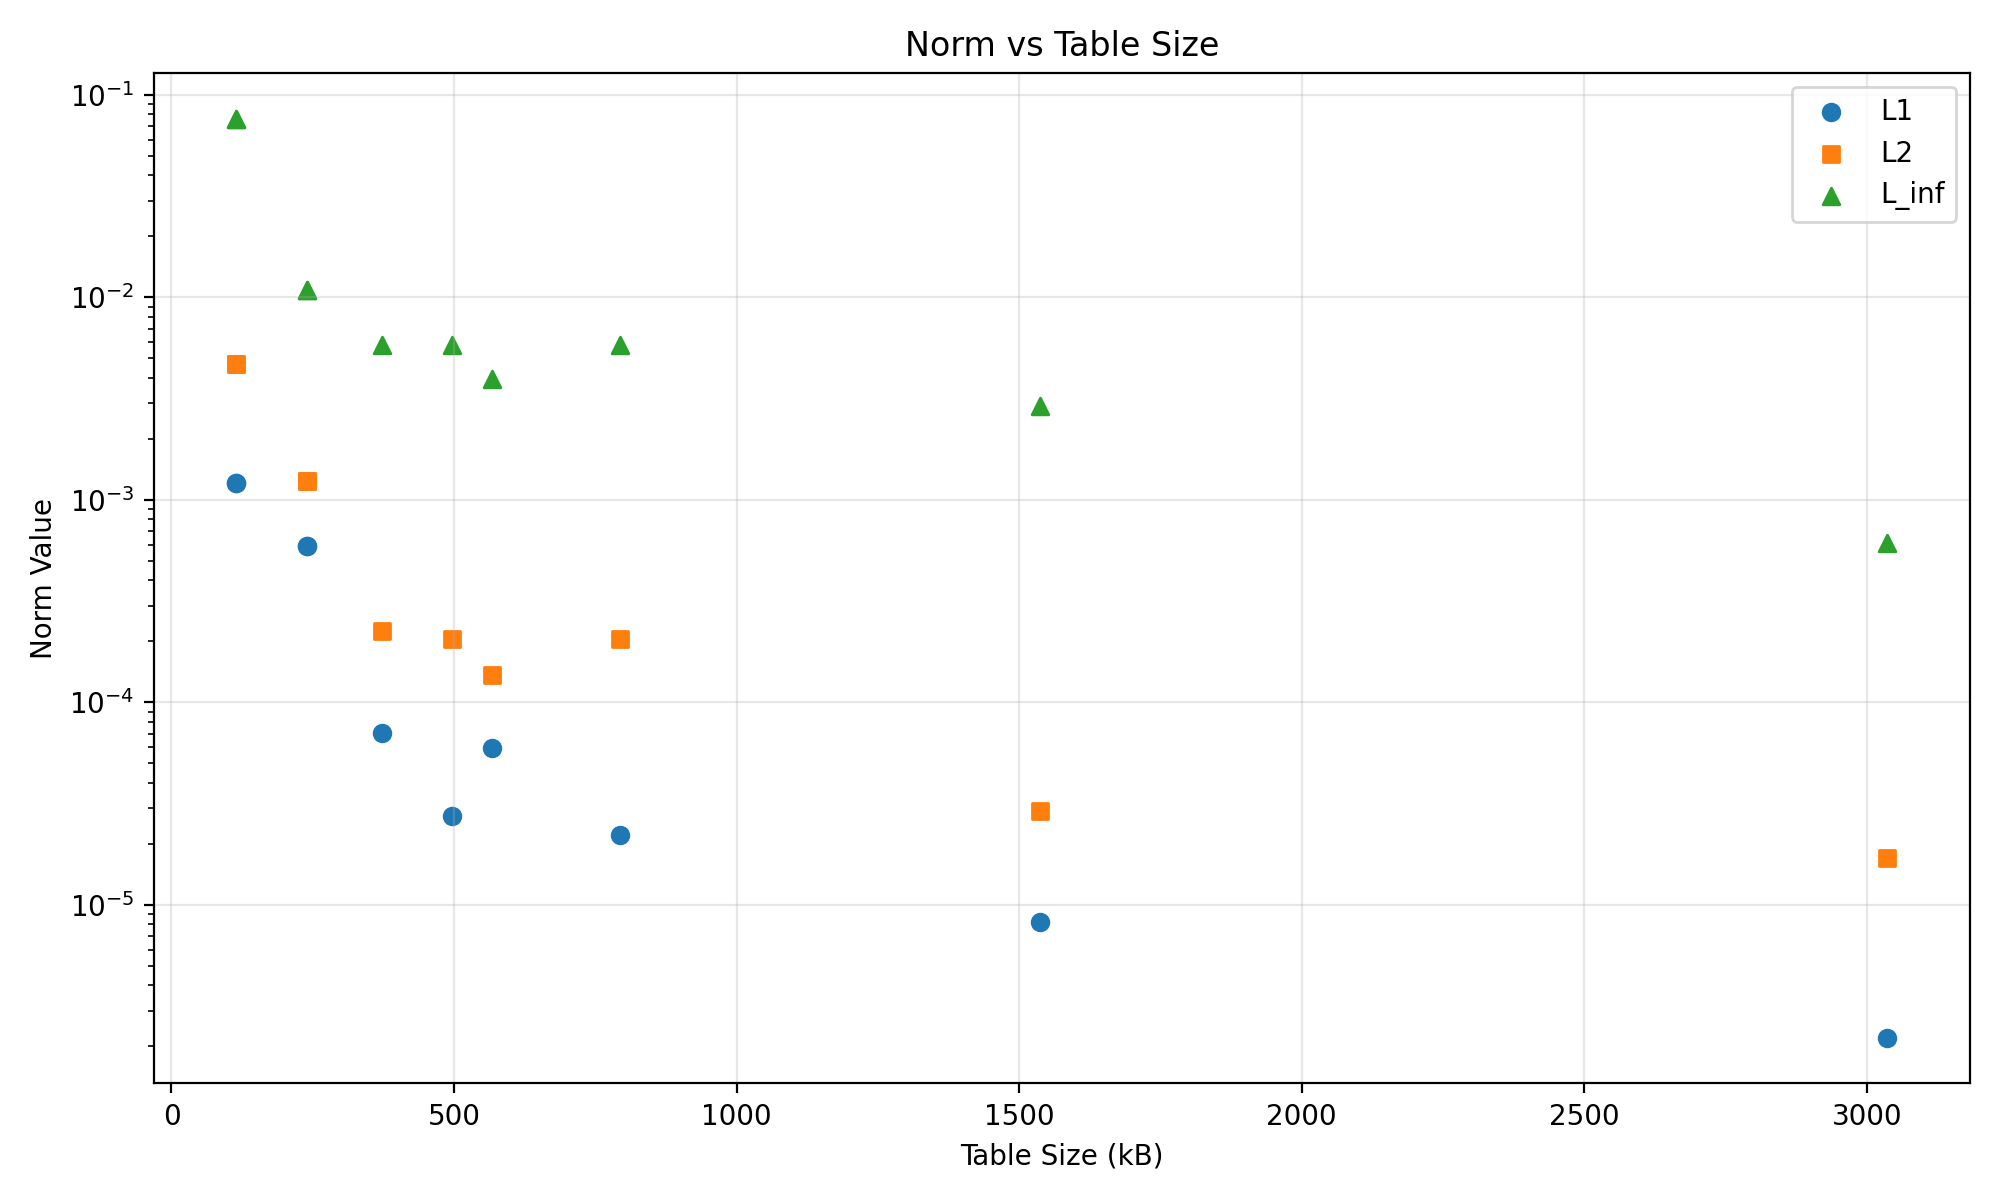
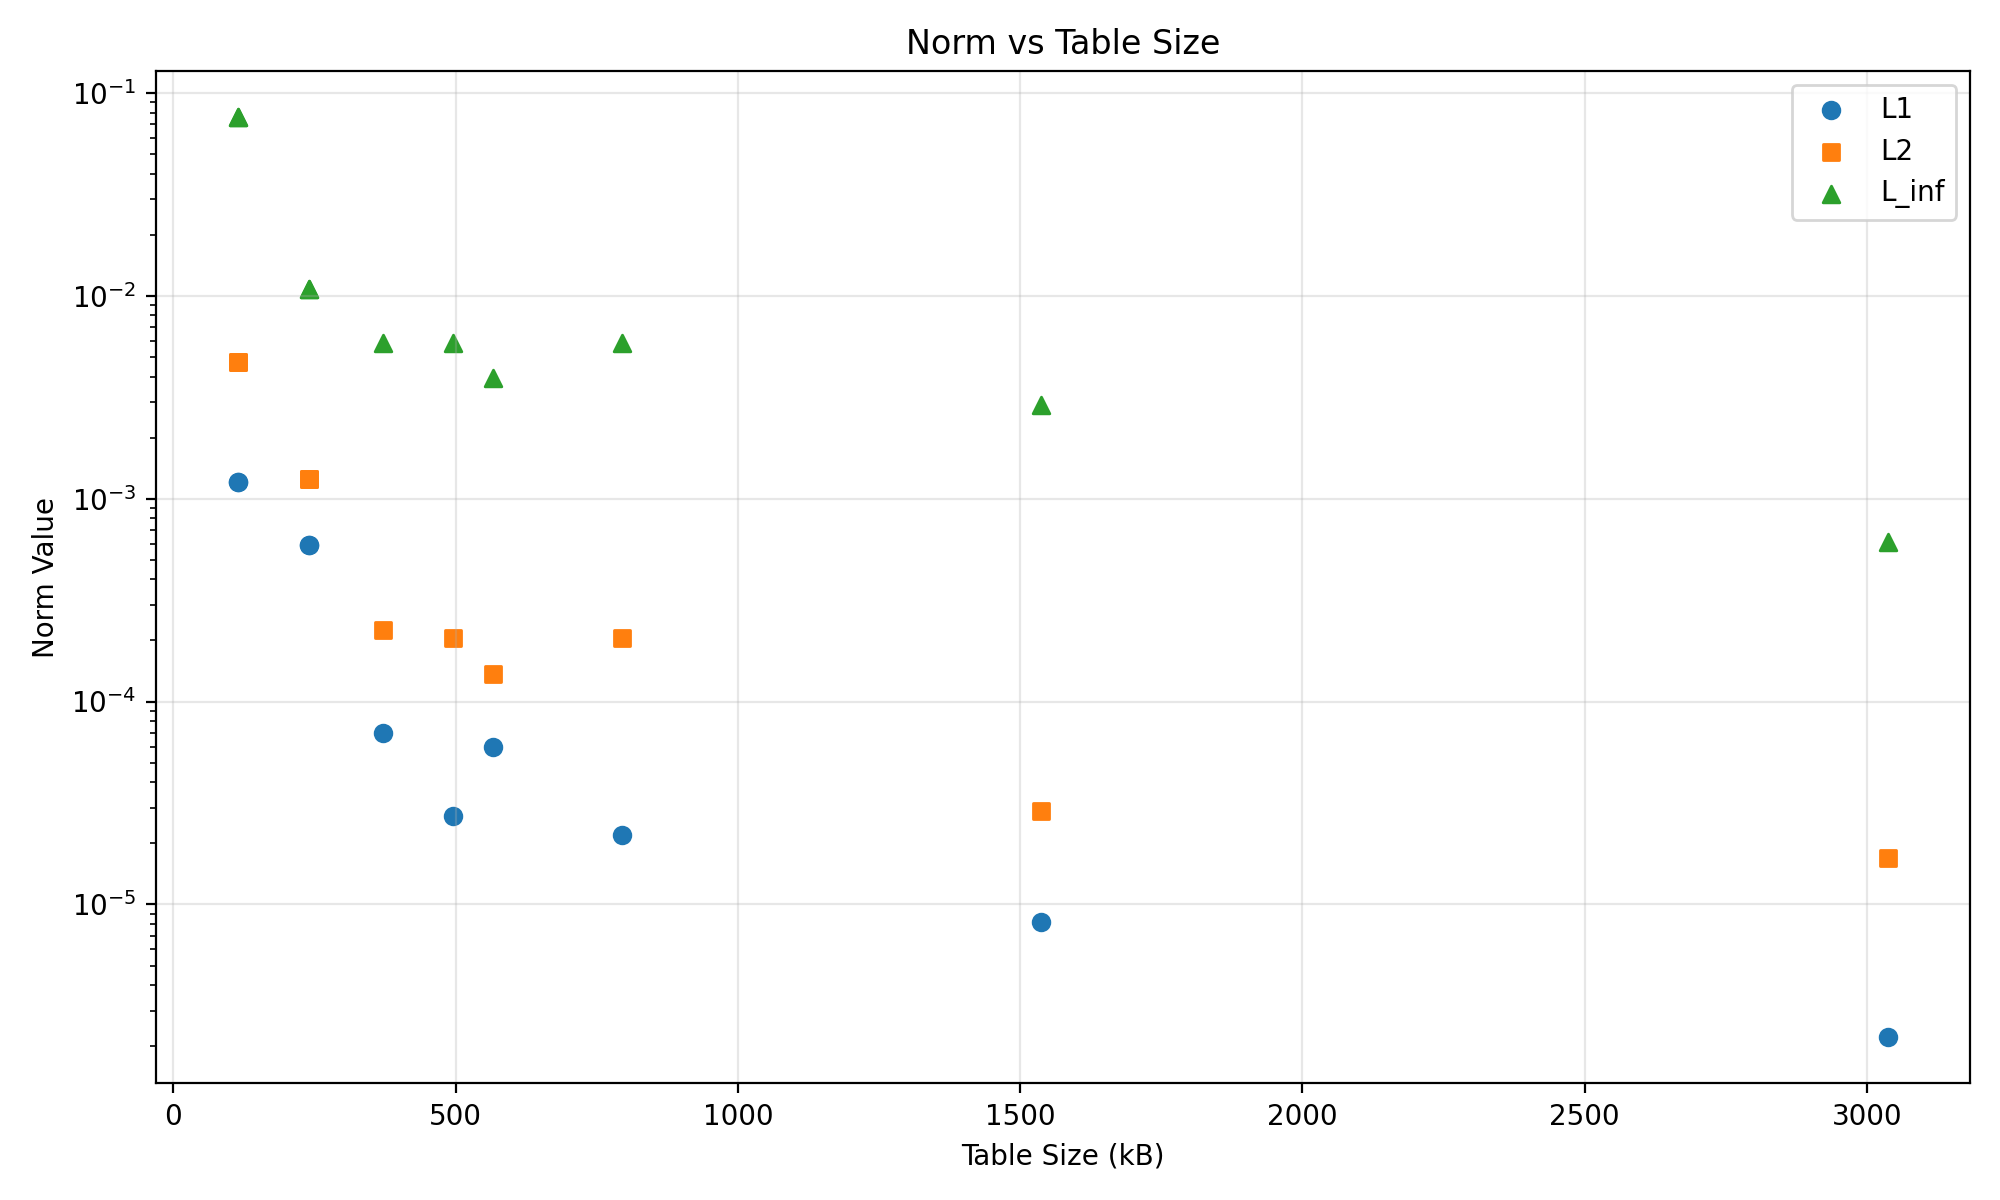
produced plots and csv file

diff --git a/quadtree_toy.py b/quadtree_toy.py
@@ -1,5 +1,5 @@
 import numpy as np
-import pandas as pd
+#import pandas as pd
 import matplotlib.pyplot as plt
 from scipy.interpolate import RegularGridInterpolator
 # from scipy.interpolate import CloughTocher2DInterpolator
